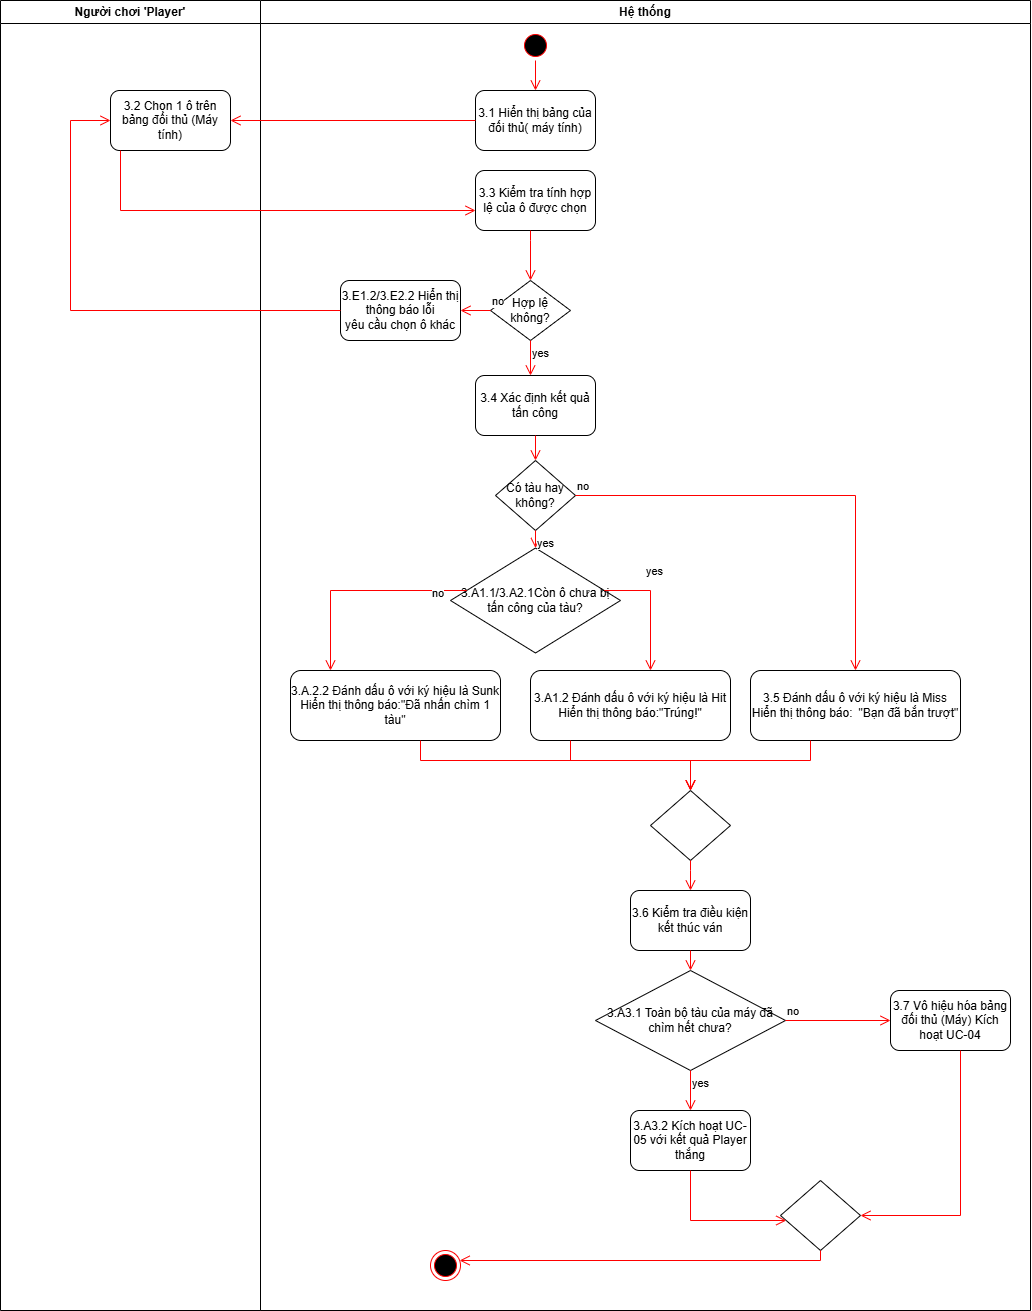
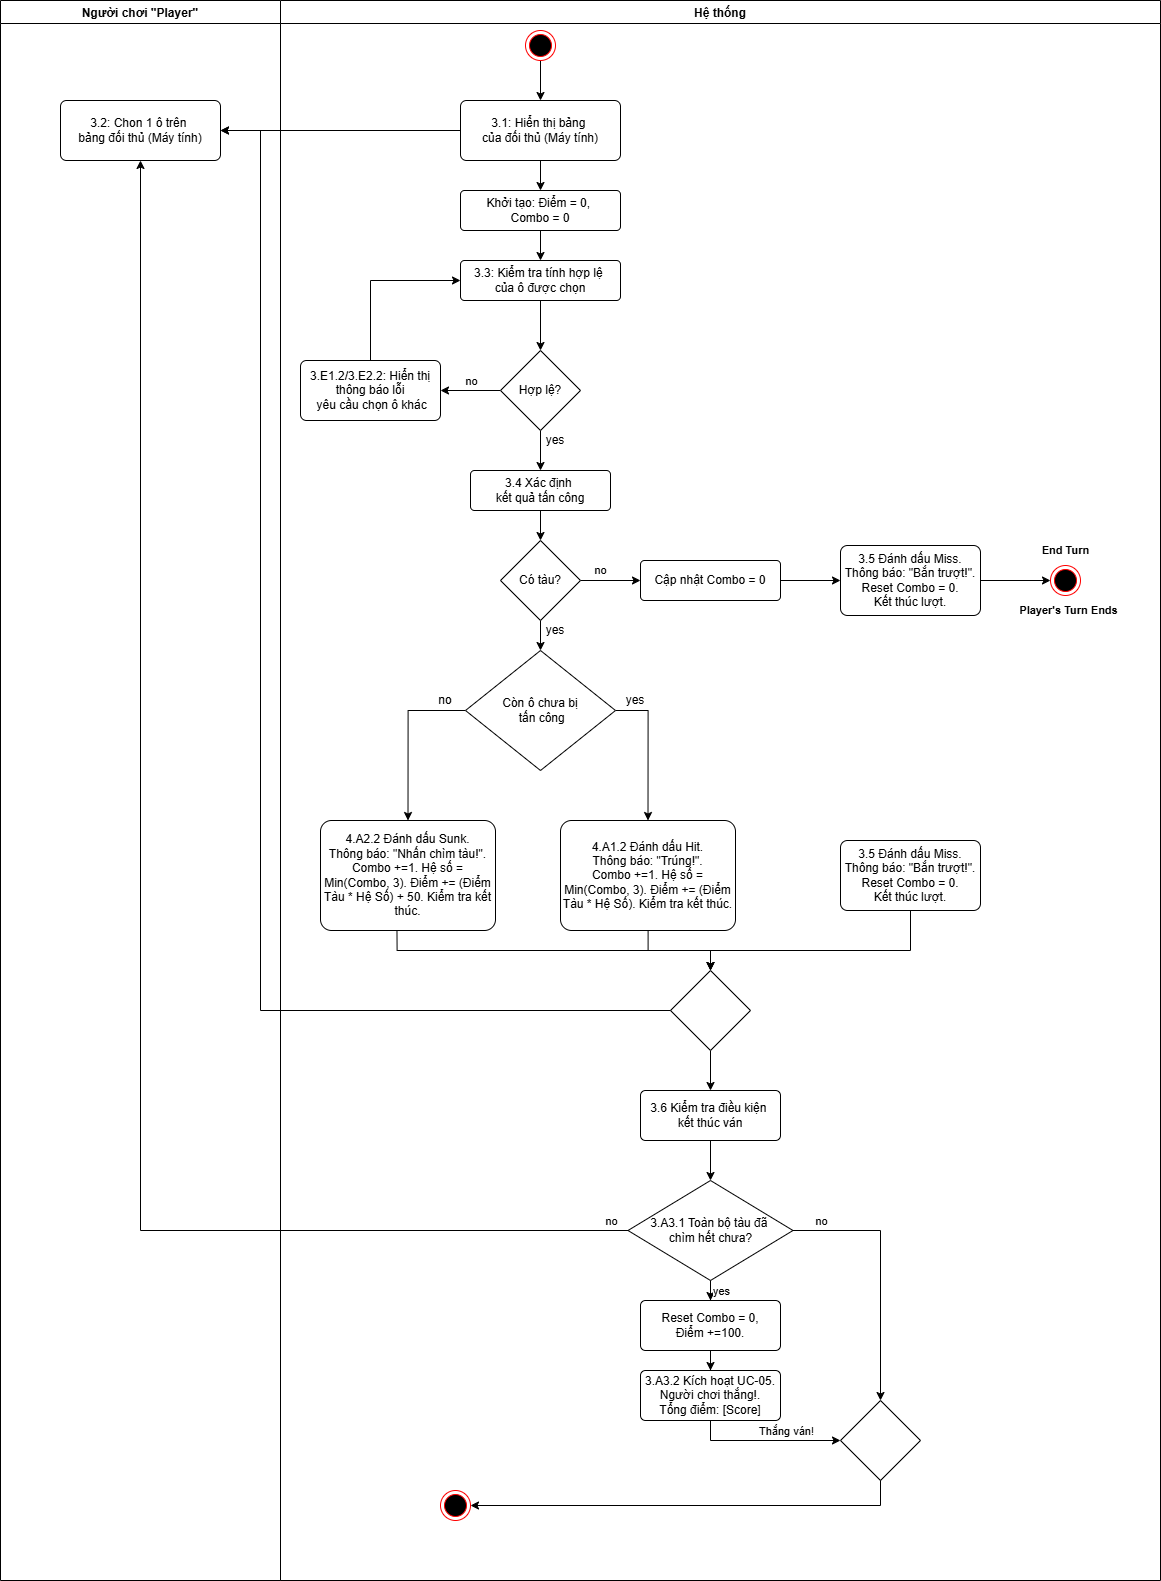
thay đổi file UC-03_Activity_Diagram và file UC-03_Sequence_Diagram, comment lại phần đã làm chi tiết theo UCS

diff --git a/battle-ship/src/store/gameSlice.js b/battle-ship/src/store/gameSlice.js
@@ -184,12 +184,15 @@ const gameSlice = createSlice({
          */
         playerAttack(state, action) {
             const {row, col} = action.payload;
-            // [3.1.3] Hệ thống kiểm tra ô đã chọn — xác nhận nằm trong bảng và chưa bị tấn công.
+            // [3.1.3] / [3.6.2] Hệ thống kiểm tra ô đã chọn — xác nhận nằm trong bảng và chưa bị tấn công.
             if (!validateCoordinate(row, col, state.computerBoard)) {
+                // [3.5.2] / [3.6.2] Luồng ngoại lệ: Ô đã bị tấn công hoặc ngoài giới hạn.
+                // Không xử lý lượt bắn, hiển thị thông báo lỗi trực quan trên UI và giữ nguyên trạng thái ván chơi.
                 state.errorMessage = 'Ô này đã bị tấn công. Vui lòng chọn ô khác.';
                 return;
             }
 
+            // Xóa thông báo lỗi cũ nếu tọa độ được chọn hoàn toàn hợp lệ
             state.errorMessage = null;
             // [3.1.4] / [3.2.1] / [3.3.1] Hệ thống xác định kết quả tấn công (Trượt, Trúng, hoặc Nhấn chìm)
             const {hasShip, ship, remainingCells} = getCellAttackInfo(
@@ -197,13 +200,13 @@ const gameSlice = createSlice({
             );
 
             let newBoard;
-             // [3.1.4] Ô không chứa tàu đối thủ → kết quả "Trượt" (Miss).
-                // [3.1.5] Đánh dấu ô vừa tấn công bằng ký hiệu Miss.
             if (!hasShip) {
-                newBoard = markCell(row, col, CELL_STATE.MISS, state.computerBoard);
+                // [3.1.4] Ô không chứa tàu đối thủ → kết quả "Trượt" (Miss).
                 state.lastAttackResult = 'miss';
+                // [3.1.5] Đánh dấu ô vừa tấn công bằng ký hiệu Miss.
+                newBoard = markCell(row, col, CELL_STATE.MISS, state.computerBoard);
 
-                // Quy tắc combo: reset về mặc định khi bắn trượt
+                // Quy tắc combo: reset combo và hệ số nhân về mặc định khi bắn trượt
                 state.comboStreak = 0;
                 state.comboMultiplier = 1;
                 state.lastScoreDelta = 0;
@@ -215,6 +218,7 @@ const gameSlice = createSlice({
             } else {
                 // [3.2.1] Ô chứa tàu đối thủ. Đánh dấu Hit tạm thời.
                 newBoard = markCell(row, col, CELL_STATE.HIT, state.computerBoard);
+                // Cập nhật số lần trúng đạn (hitCount) vào thông tin hạm đội của Máy tính
                 const shipIndex = state.computerFleet.findIndex((s) => s.id === ship.id);
                 if (shipIndex !== -1) state.computerFleet[shipIndex].hitCount += 1;
 
@@ -226,31 +230,37 @@ const gameSlice = createSlice({
                 const basePoints = SHIP_POINTS[ship.id] || 0;
                 let currentTurnScore = basePoints * state.comboMultiplier;
 
+                // KIỂM TRA TRƯỜNG HỢP A: LUỒNG THAY THẾ 3.3 — NHẤN CHÌM TÀU (SUNK)
                 if (remainingCells === 0) {
-                     // [3.3.1] Đây là ô cuối cùng chưa bị tấn công của tàu đó → kết quả "Nhấn chìm" (Sunk).
+                    // [3.3.1] Đây là ô cuối cùng chưa bị tấn công của tàu đó → kết quả "Nhấn chìm" (Sunk).
+                    state.lastAttackResult = 'sunk';
                     // [3.3.2] Đánh dấu toàn bộ ô của tàu bị nhấn chìm đồng loạt bằng ký hiệu Sunk.
                     newBoard = markAllShipCells(ship, newBoard);
-                    state.lastAttackResult = 'sunk';
-
+                    // Cộng thêm +50 điểm thưởng vì đã hạ thành công một con tàu đối thủ
                     currentTurnScore += 50;
-                } else {
+                }
+                // KIỂM TRA TRƯỜNG HỢP B: LUỒNG THAY THẾ 3.2 — TẤN CÔNG TRÚNG, TÀU CHƯA CHÌM (HIT)
+                else {
                     // [3.2.1] Tàu còn ít nhất một ô khác chưa bị tấn công → kết quả "Trúng" (Hit).
-                    // [3.2.2] Đánh dấu ô vừa tấn công bằng ký hiệu Hit.
                     state.lastAttackResult = 'hit';
+                    // [3.2.2] Đánh dấu ô vừa tấn công bằng ký hiệu Hit.
                 }
 
+                // Cập nhật điểm số tổng và lưu lượng điểm thay đổi (delta) của lượt này vào state hệ thống
                 state.score = (state.score || 0) + currentTurnScore;
                 state.lastScoreDelta = currentTurnScore;
                 state.computerBoard = newBoard;
             }
             // [3.1.6] / [3.4.1] Kiểm tra điều kiện kết thúc ván.
             state.computerBoard = newBoard;
+            // [3.1.6] Hệ thống thực hiện gọi hàm kiểm tra điều kiện kết thúc ván chơi.
             if (checkEndGame(state.computerFleet, newBoard)) {
                 // [3.4.1] Xác định toàn bộ tàu đối thủ đã bị nhấn chìm.
                 // [3.4.2] Kích hoạt UC-05 với kết quả Player thắng.
                 state.phase = PHASES.GAME_OVER;
                 state.winner = WINNER.PLAYER;
 
+                // Cộng thêm +100 điểm thưởng chiến thắng ván đấu cho người chơi
                 state.score += 100;
                 state.lastScoreDelta += 100;
             } else {
